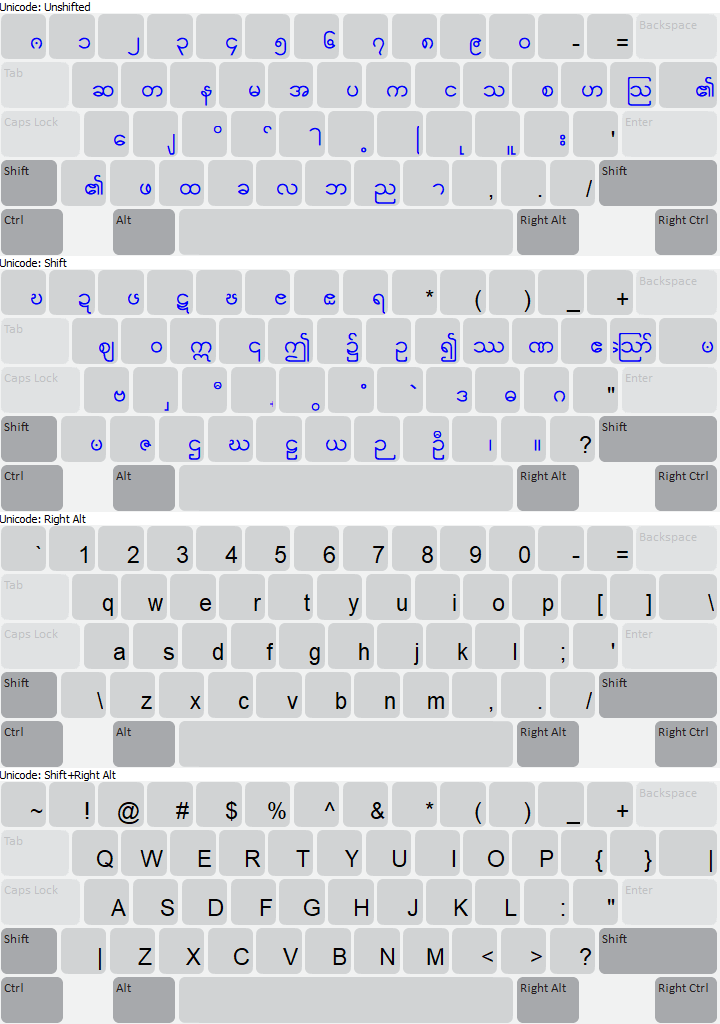
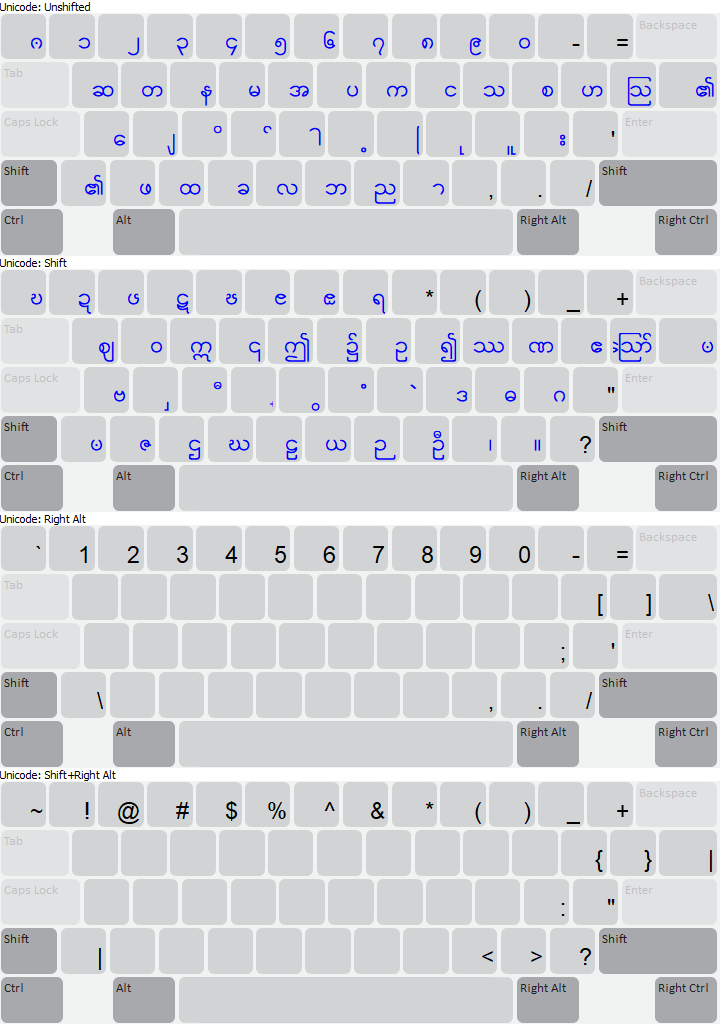
remove the English alphabet from desktop layout

diff --git a/release/basic/basic_kbdmyan/HISTORY.md b/release/basic/basic_kbdmyan/HISTORY.md
@@ -5,3 +5,4 @@ Myanmar (Phonetic order) Basic Change History
 ----------------
 * Keyman keyboard generated by ImportKeyboard from Windows 10 
 * Touch layout added
+* Remove English characters (abc... and ABC...)
